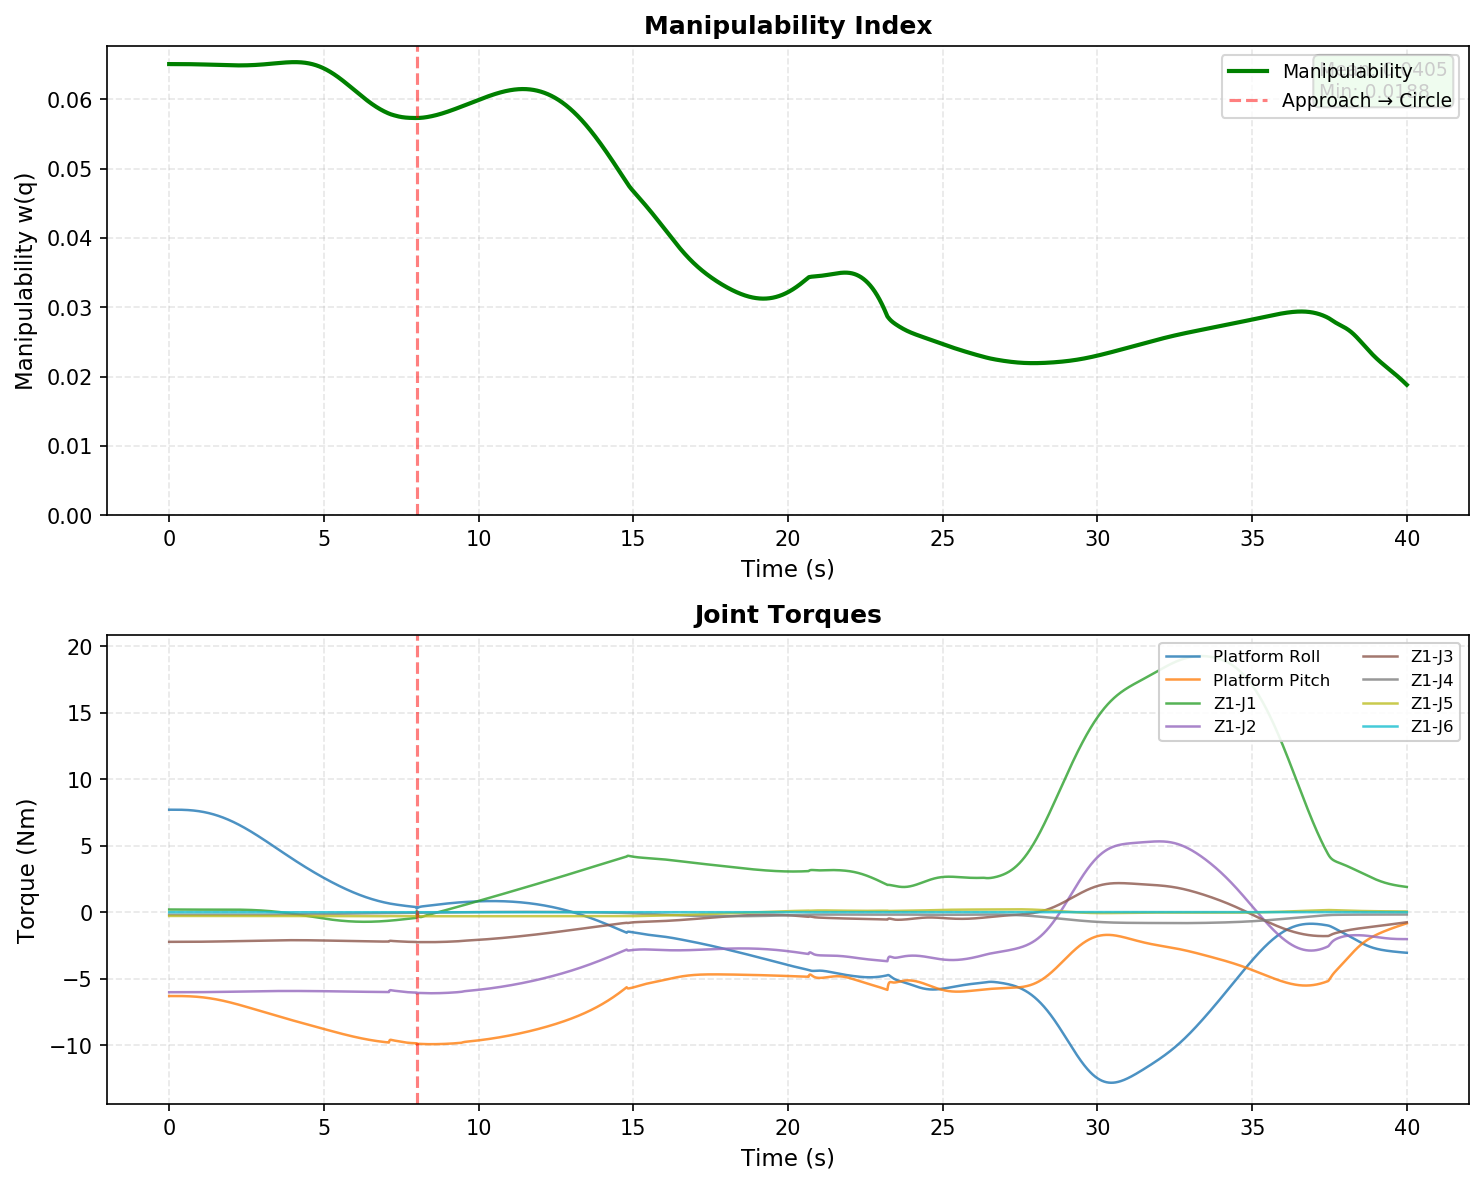
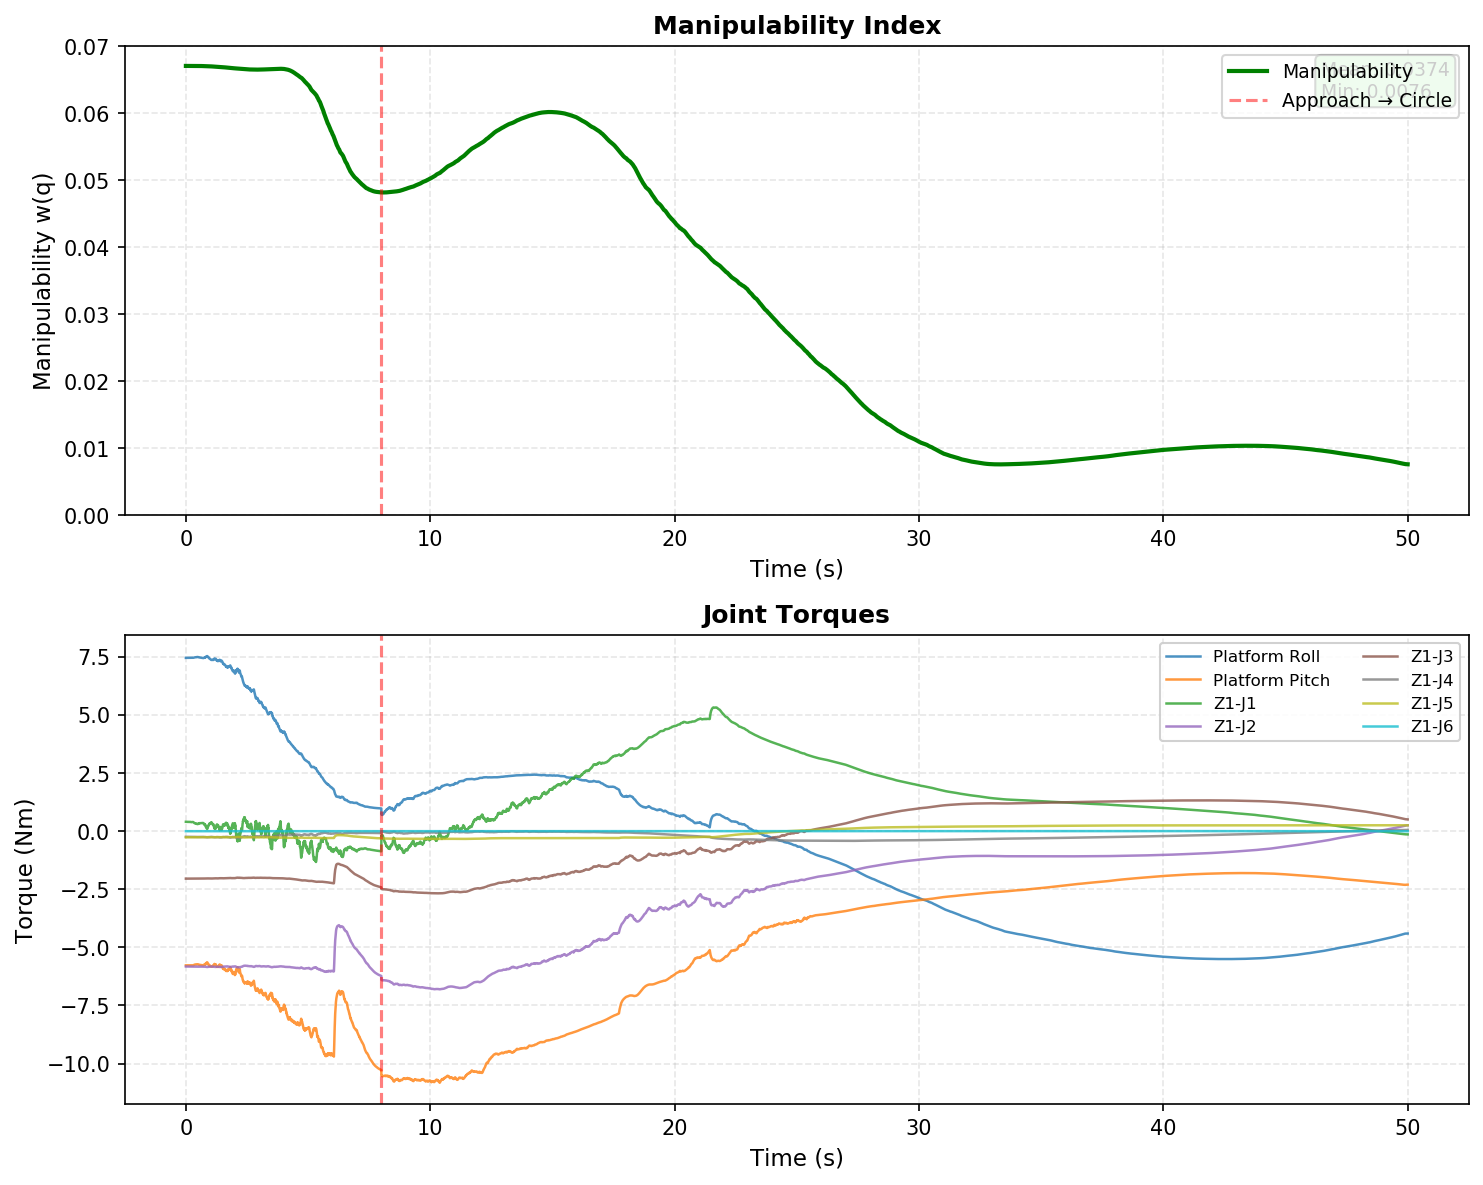
new images for the report

diff --git a/src/cleaning_robot/scripts/controller.py b/src/cleaning_robot/scripts/controller.py
@@ -155,7 +155,7 @@ class TaskSpaceController:
 
             # It's preferable to optimize manipulability only in safe regions
             # Near singularities small errors in the Jacobian can cause large errors in gradient
-            if self.k_null > 0 and manip > 0.055:
+            if self.k_null > 0 and manip > 0.04:
                 grad_w = self.robot.compute_manipulability_gradient(q)
                 qddot_secondary += self.k_null * grad_w
 
